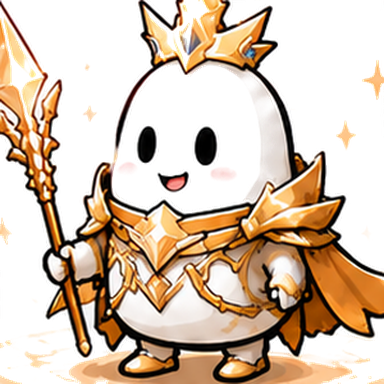
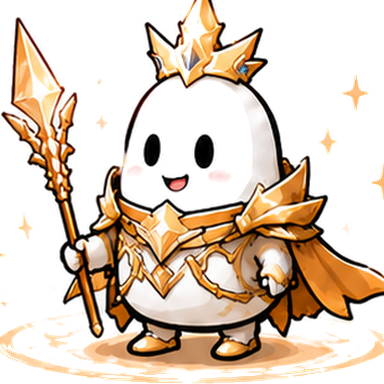
新しいキャラが端末に届かないのを直し、全身が入るようにする
反映されなかった原因
- 画像をキャッシュ優先で返すようにしたため、差し替えても同じURLの
  古い絵が出続けていた（この作りを入れたのは今日の自分）。
  URLに版（APP_BUILD）を付けて、別物として取り直させる。
  ★RANK_ART は APP_BUILD より前にあるので、定数の中では参照しない★
  （参照すると「初期化前に参照した」で落ちる。関数にして呼ぶ時に読む）
- サービスワーカーのキャッシュ名も上げて、古い画像を捨てる

キャラが切れる件
- 切り出す枠を広げた（体の幅の約2.8倍）。王冠・杖・マント・足まで入る。
  体の大きさでそろえているので、顔の大きさは6体とも同じまま
- ヘッダーの階級の札を、いただいた画像の大きさに寄せて小さくした

diff --git a/index.html b/index.html
@@ -1329,6 +1329,15 @@ const RANK_ART = {
   "レジェンド":     "assets/rank/legend.png",
 };
 
+// 画像は端末にキャッシュされる。差し替えても古い絵が出続けるので、
+// 版（APP_BUILD）をURLに付けて別物として取り直させる。
+// ★関数にしておくこと★ RANK_ART は APP_BUILD より前にあるので、
+//   定数の中で APP_BUILD を参照すると「初期化前に参照した」で落ちる。
+function rankArt(name) {
+  const p = RANK_ART[name];
+  return p ? (p + "?v=" + APP_BUILD) : "";
+}
+
 function getRank(level) {
   return RANKS.find(r => level >= r.minLv && level <= r.maxLv) || RANKS[0];
 }
@@ -3244,7 +3253,7 @@ function HomeScreen({goalData, onGoalSaved, profile, isActive, showInCommunity, 
            階級が上がってもキャラの大きさは変わらないよう、絵の側でそろえてある。 -->
       ${(()=>{
         const rank = game ? getRank(game.level) : null;
-        const art  = rank ? RANK_ART[rank.name] : "";
+        const art  = rank ? rankArt(rank.name) : "";
         const lvLabel = rank
           ? (rank.maxLv >= 999 ? `Lv.${rank.minLv}+`
              : rank.minLv === rank.maxLv ? `Lv.${game.level}` : `Lv.${game.level}`)
@@ -3266,15 +3275,15 @@ function HomeScreen({goalData, onGoalSaved, profile, isActive, showInCommunity, 
                           overflow:"hidden",textOverflow:"ellipsis",whiteSpace:"nowrap"}}>
               ${profile?.nickname||CURRENT_USER.name}</div>
             ${rank&&html`
-              <div style=${{display:"inline-flex",alignItems:"center",gap:5,marginTop:7,
-                            background:rank.color,borderRadius:20,padding:"4px 12px"}}>
-                <span style=${{fontSize:11,lineHeight:1}}>${rank.emoji}</span>
-                <span style=${{fontSize:12,fontWeight:800,color:"#fff",whiteSpace:"nowrap"}}>
+              <div style=${{display:"inline-flex",alignItems:"center",gap:4,marginTop:6,
+                            background:rank.color,borderRadius:20,padding:"3px 10px"}}>
+                <span style=${{fontSize:9.5,lineHeight:1}}>${rank.emoji}</span>
+                <span style=${{fontSize:10.5,fontWeight:800,color:"#fff",whiteSpace:"nowrap"}}>
                   ${lvLabel} ${rank.name}</span>
               </div>
               <!-- 次のレベルまでの進み具合 -->
-              <div style=${{height:6,borderRadius:99,background:"rgba(255,255,255,0.25)",
-                            overflow:"hidden",marginTop:8}}>
+              <div style=${{height:5,borderRadius:99,background:"rgba(255,255,255,0.25)",
+                            overflow:"hidden",marginTop:7}}>
                 <div style=${{height:"100%",width:pct+"%",borderRadius:99,background:rank.color}}/>
               </div>`}
             ${game&&html`
@@ -9345,7 +9354,7 @@ function SettingsScreen({onToast,onLogout,onGoalSaved,profile,onProfileSaved,onC
             // ★まだ上がっていない階級は、姿を見せない★（2026-08-05 Kai要望）
             //   先に全部見えていると、上がったときの楽しみが無くなる。
             const reached = myLevel > 0 && myLevel >= r.minLv;
-            const art = reached ? (RANK_ART[r.name] || "") : "";
+            const art = reached ? rankArt(r.name) : "";
             return html`
               <div key=${r.name}>
                 <div style=${{display:"flex",alignItems:"center",gap:6,marginBottom:6,flexWrap:"wrap"}}>
@@ -9583,7 +9592,7 @@ function dueLabel(dueAt, overdue){
 // ★このファイルの版★
 // 更新検知に使う。index.html を変えたら必ずここも変える
 // （スモークテストが、変え忘れたら落とす）。
-const APP_BUILD = "20260805-121615";
+const APP_BUILD = "20260805-122140";
 
 const GOOGLE_CLIENT_ID = "476804060858-n3afj7ipmc81vq8cq71u0u3jdpolshea.apps.googleusercontent.com";
 

diff --git a/sw.js b/sw.js
@@ -8,7 +8,7 @@
 // ★v13★ 2026-08-05: 裏での取り直しがHTTPキャッシュから古いHTMLを受け取っていた。
 //   保存されるキャッシュも古いままになり、何度読み込み直しても新しい版に
 //   変わらなくなっていた（Kai報告）。名前を上げて、詰まったキャッシュを捨てる。
-const CACHE = "jiroku-v14-rank-art";
+const CACHE = "jiroku-v15-rank-art2";
 
 // タイマー終了などをバックグラウンドでも通知するためのFirebase Cloud Messaging。
 // 別ファイル（firebase-messaging-sw.js）として登録すると、同じスコープ('/')の
